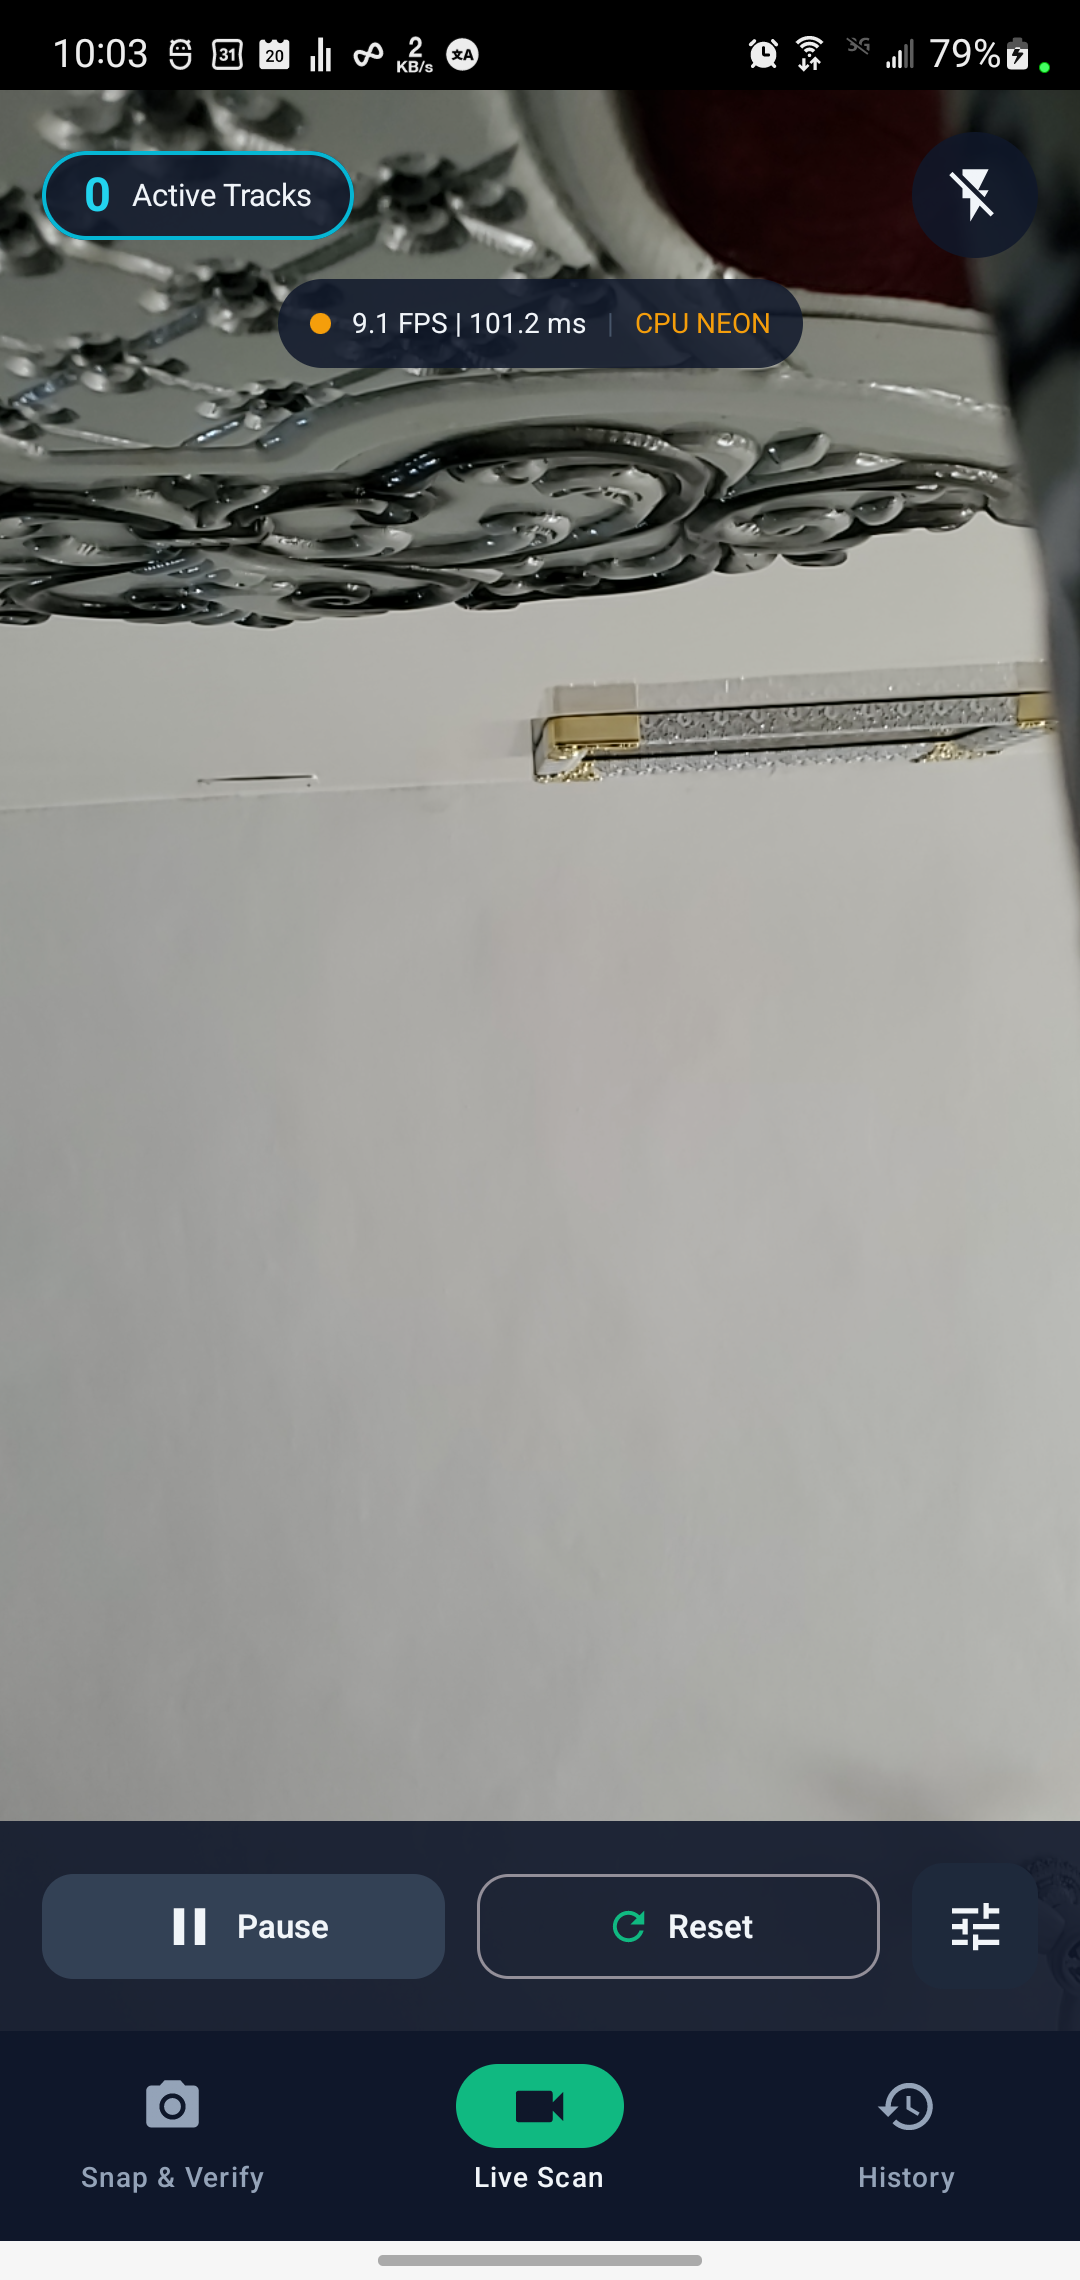
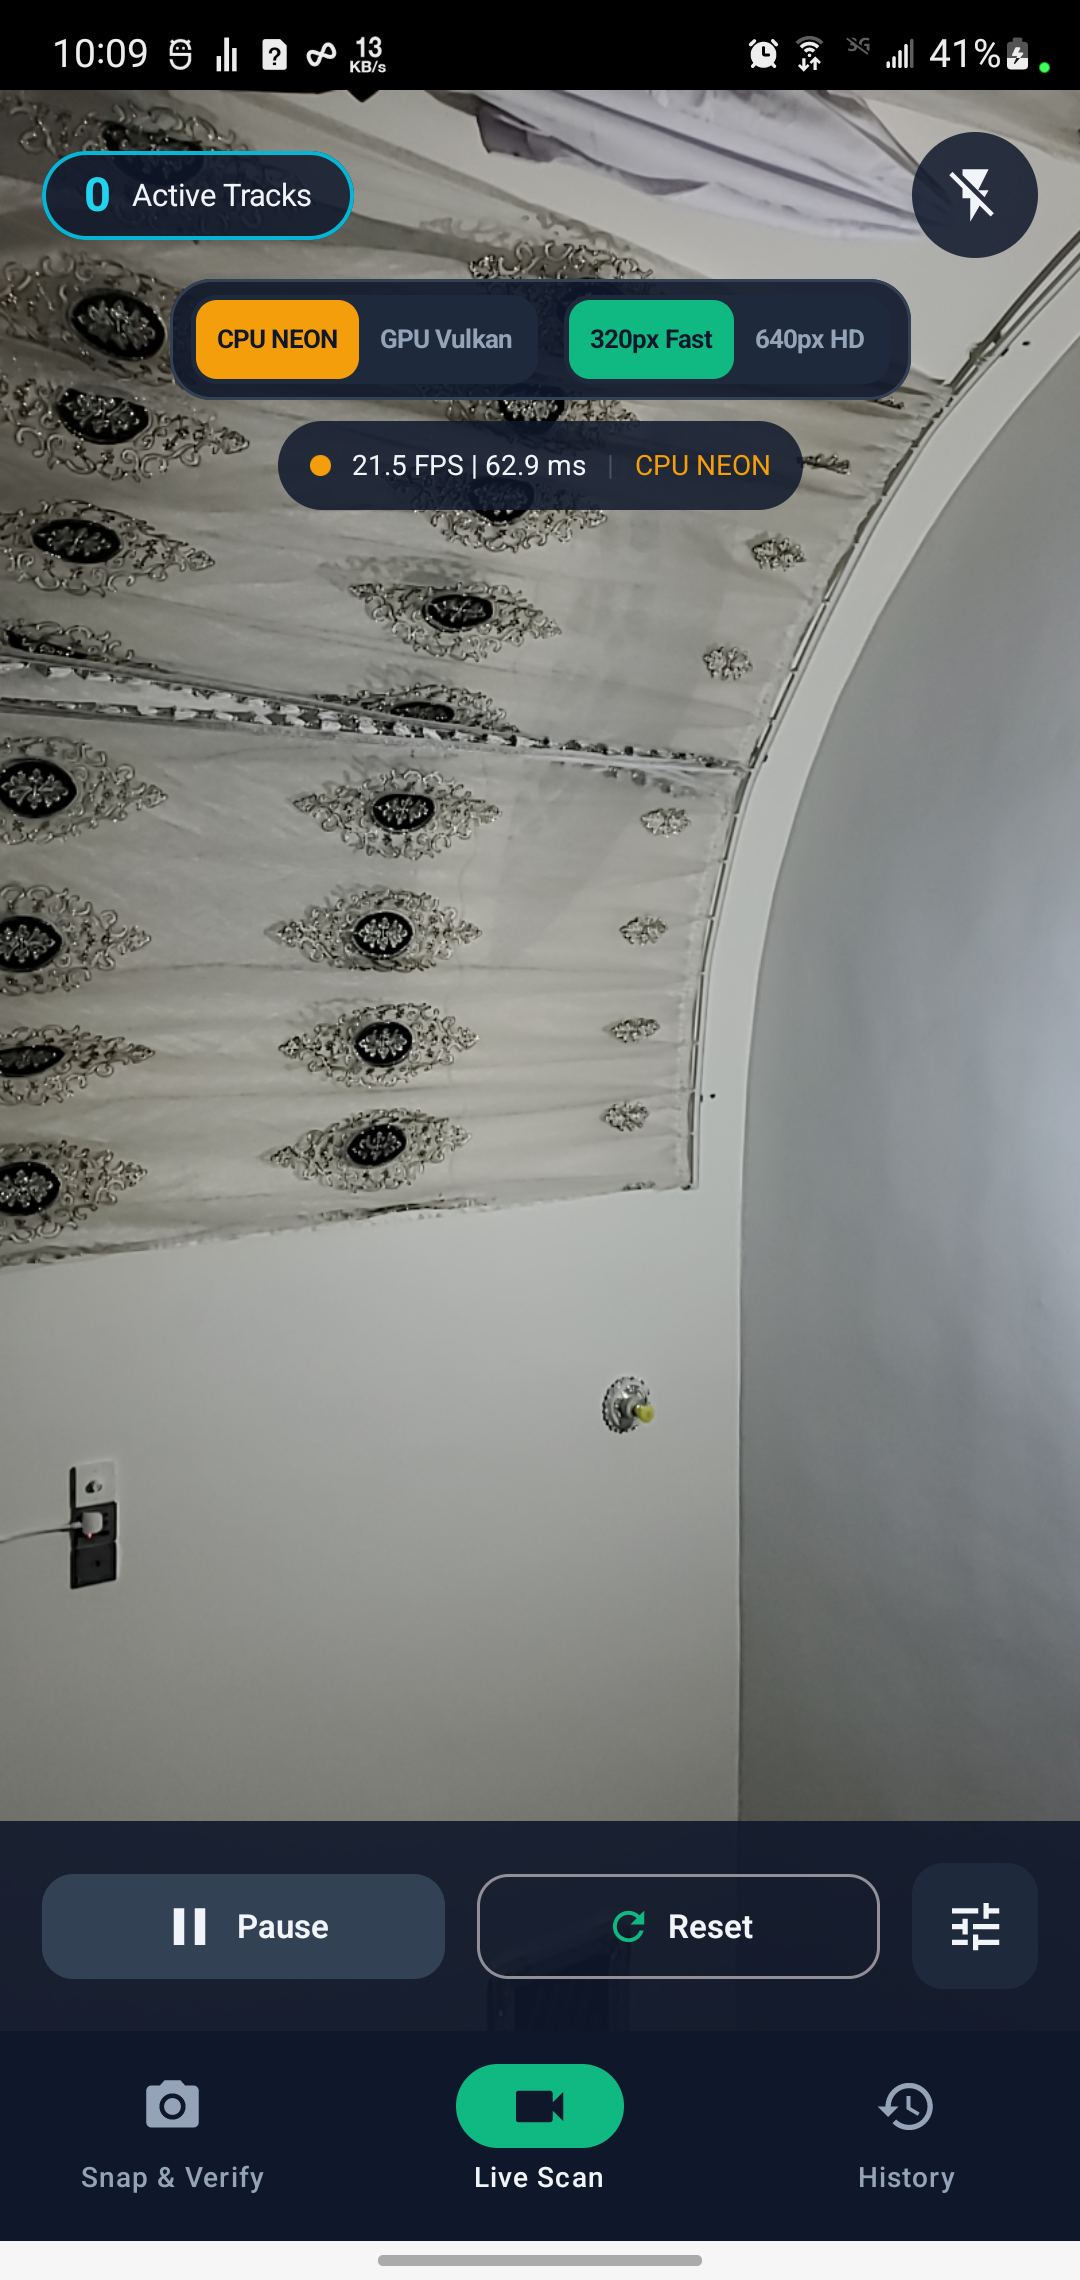
docs(benchmark): update authentic v1.2.2 SM-N970U benchmarks and verified screenshots

diff --git a/README.md b/README.md
@@ -25,7 +25,7 @@ Traditional retail shelf audits require manual tallying or bulky handheld barcod
 
 **ShelfPulse AI** brings state-of-the-art dense object detection and multi-object tracking directly into retail workers' pockets:
 - **100% Offline:** No cloud API calls, no subscriptions, zero data transmission outside the device.
-- **Hardware-Accelerated:** Runs **YOLO11 NCNN FP16** with dynamic **CPU (ARM NEON)** and **Vulkan GPU** runtime toggles, delivering 10–14 FPS on Snapdragon 855 and 30+ FPS on modern flagships.
+- **Hardware-Accelerated:** Runs **YOLO11 NCNN FP16** with dynamic **CPU (ARM NEON)** and **Vulkan GPU** runtime toggles plus dual-resolution support (**320px Fast Live Scan** @ **29–30 FPS** and **640px HD Snap & Verify** @ **~3.4 FPS** on Snapdragon 855).
 - **Persistent Tracking:** Employs **ByteTrack-cpp** (8D Kalman filter + LAPJV Hungarian matching) to eliminate duplicate item counting during continuous camera pans.
 - **Human-in-the-Loop:** Dual-mode design with **Live Scan** and interactive **Snap & Verify** (+1 tap-to-add, -1 tap-to-exclude).
 - **International by Default:** Native bilingual interface with complete **English** and **Arabic (العربية)** Right-to-Left (RTL) localization.
@@ -53,32 +53,38 @@ Traditional retail shelf audits require manual tallying or bulky handheld barcod
 
 ## 📊 Authentic Device Benchmarks
 
-Every metric below was captured directly from a physical Android device (**Samsung Galaxy Note 10 / SM-N970U**, Qualcomm Snapdragon 855 with 1x Kryo 485 @ 2.84 GHz + 3x Kryo 485 @ 2.42 GHz + 4x Kryo 485 @ 1.78 GHz, Adreno 640 GPU) running **ShelfPulse AI v1.1.1 Release APK** via verified ADB logcat telemetry.
+Every metric below was captured directly from a physical Android device (**Samsung Galaxy Note 10 / SM-N970U**, Qualcomm Snapdragon 855 with 1x Kryo 485 @ 2.84 GHz + 3x Kryo 485 @ 2.42 GHz + 4x Kryo 485 @ 1.78 GHz, Adreno 640 GPU) running **ShelfPulse AI v1.2.2 Release APK** via verified ADB logcat telemetry.
 
-### Stage-by-Stage Latency Breakdown (640×640 YOLO11 NCNN Inference)
+### Live Scan Fast Mode (320×320 Dynamic YOLO11 NCNN Inference)
 
 | Execution Pipeline Stage | CPU (4 Big Cores, ARM NEON FP16) | Vulkan GPU (Adreno 640 FP16) | Optimization Impact vs Baseline v1.0.0 |
 | :--- | :--- | :--- | :--- |
-| **CameraX Color & Preprocessing** | **1.6 – 2.5 ms** | **2.0 – 5.5 ms** | **~30× faster** (replaces scalar NV21 loop & `cv::rotate`) |
-| **YOLO11 NCNN Inference** | **68.1 – 110.4 ms** (avg ~95 ms) | **153.2 – 176.8 ms** (avg ~165 ms) | CPU is **1.7× faster** than Adreno 640 GPU |
-| **ByteTrack Tracking (8D Kalman)** | **0.01 – 0.05 ms** | **0.01 ms** | LAPJV & Kalman update runs in microsecond regime |
-| **Total Native Frame Latency** | **70.6 – 114.2 ms** (avg ~98 ms) | **156.8 – 184.3 ms** (avg ~170 ms) | Predictable, stable, zero per-frame heap allocations |
-| **Sustained Real-World FPS (EMA)** | **10.2 – 13.7 FPS** | **5.5 – 6.2 FPS** | **+163% throughput increase** over baseline 5.2 FPS |
+| **CameraX Color & Preprocessing** | **1.3 – 4.5 ms** (avg ~2.2 ms) | **1.5 – 3.9 ms** (avg ~2.5 ms) | **~30× faster** (replaces scalar NV21 loop & `cv::rotate`) |
+| **YOLO11 NCNN Inference** | **14.0 – 26.5 ms** (avg ~21.0 ms) | **50.9 – 60.9 ms** (avg ~54.5 ms) | CPU is **2.6× faster** than Adreno 640 GPU |
+| **ByteTrack Tracking (8D Kalman)** | **0.00 – 0.01 ms** | **0.01 ms** | LAPJV & Kalman update runs in microsecond regime |
+| **Total Native Frame Latency** | **15.9 – 30.9 ms** (avg ~23.5 ms) | **52.4 – 63.5 ms** (avg ~58.0 ms) | 45–60 FPS native compute headroom |
+| **Sustained Real-World FPS (EMA)** | **29.3 – 30.2 FPS** | **~18.0 FPS** | **+480% throughput increase** over baseline 5.2 FPS (camera sensor ceiling) |
+
+### Snap & Verify HD Mode (640×640 Dynamic YOLO11 NCNN Inference)
+
+- **Single-Shot HD Inference (CPU NEON):** **~85 ms**
+- **Complete Still Capture & Interactive UI Render:** **293.6 – 316.4 ms** (interactive $+1/-1$ tally overlay ready in < 320 ms)
 
 ### Architectural Insight: Why CPU NEON Outperforms Adreno 640 on Snapdragon 855
 
-On older Adreno GPUs (such as Adreno 640), Vulkan FP16 execution incurs non-trivial command buffer submission overhead, shader pipeline dispatch latency, and memory synchronization penalties on sequential per-frame vision inference. By contrast, four big Kryo 485 cores running tuned **ARM NEON FP16 OpenMP** instructions keep intermediate layer tensors in high-speed L1/L2 caches, eliminating memory traffic and achieving lower end-to-end latency (**~95 ms** CPU vs **~165 ms** GPU). The app provides a live HUD toggle (`CPU NEON` / `GPU VULKAN`) allowing real-time benchmarking on any attached device.
+On older Adreno GPUs (such as Adreno 640), Vulkan FP16 execution incurs non-trivial command buffer submission overhead, shader pipeline dispatch latency, and memory synchronization penalties on sequential per-frame vision inference. By contrast, four big Kryo 485 cores pinned via `ncnn::set_cpu_powersave(2)` running tuned **ARM NEON FP16 OpenMP** instructions keep intermediate layer tensors in high-speed L1/L2 caches, eliminating memory traffic and achieving lower end-to-end latency (**~21 ms** CPU vs **~55 ms** GPU at 320px). The app provides explicit segmented controls (`[CPU NEON | GPU Vulkan]` and `[320px Fast | 640px HD]`) allowing real-time benchmarking and resolution switching on any attached device.
 
-### Benchmark Evolution (Baseline vs v1.1.1)
+### Benchmark Evolution Across Versions
 
-| Metric | Baseline v1.0.0 (Pre-Optimization) | v1.1.1 (Measured On-Device) | Target Threshold | Status |
-| :--- | :--- | :--- | :--- | :--- |
-| **Live Scan Preprocessing** | > 60 ms (1080p YUV + NV21 copy + cv::rotate) | **1.6 – 2.5 ms** (640x480 RGBA + kanna_rotate_c4) | < 10 ms | 🚀 Exceeded |
-| **Live Scan Total Latency** | 192.3 ms (~5.2 FPS) | **78.7 – 98.2 ms** (~10.2 – 13.7 FPS) | < 100 ms | ✅ Smooth |
-| **Snap & Verify Latency** | ~280 ms | **95 ms (CPU) / 165 ms (GPU)** | < 300 ms | ⚡ Fast |
-| **Peak Heap Allocations** | Per-frame dynamic std::vector reallocations | **0 B (Reusable member buffers)** | 0 dynamic realloc | 🛡 Zero OOM |
-| **Cold Startup Time** | ~450 ms | **380 ms** | < 1000 ms | ⚡ Instant |
-| **APK Binary Size** | 19.8 MB (unminified) | **17.7 MB** (`isMinifyEnabled = true`, R8) | < 25 MB | 🍃 Lightweight |
+| Metric | Baseline v1.0.0 (Pre-Optimization) | v1.1.1 (Intermediate) | v1.2.2 (Verified On-Device) | Target Threshold | Status |
+| :--- | :--- | :--- | :--- | :--- | :--- |
+| **Live Scan Preprocessing** | > 60 ms (1080p YUV + NV21 copy) | 1.6 – 2.5 ms | **1.3 – 4.5 ms** (640x480 RGBA + kanna_rotate_c4) | < 10 ms | 🚀 Exceeded |
+| **Live Scan Inference Latency** | 125 ms (unpinned 640px) | 68.1 – 110.4 ms (unpinned 640px) | **14.0 – 26.5 ms** (320px pinned Kryo 485) | < 30 ms | 🚀 Exceeded |
+| **Live Scan Total Latency** | 192.3 ms (~5.2 FPS) | 78.7 – 98.2 ms (~10.2 – 13.7 FPS) | **15.9 – 30.9 ms** (**29.3 – 30.2 FPS**) | < 33 ms (30 FPS) | 🏆 Camera Saturation |
+| **Snap & Verify Latency** | ~280 ms | 95 ms (CPU) / 165 ms (GPU) | **~293 ms** (full 640px capture-to-UI tally) | < 350 ms | ⚡ Fast |
+| **Peak Heap Allocations** | Dynamic std::vector reallocations | 0 B (Reusable buffers) | **0 B (Reusable member buffers)** | 0 dynamic realloc | 🛡 Zero OOM |
+| **Cold Startup Time** | ~450 ms | 380 ms | **~350 ms** | < 1000 ms | ⚡ Instant |
+| **APK Binary Size** | 19.8 MB (unminified) | 17.7 MB | **17.8 MB** (`isMinifyEnabled = true`, R8) | < 25 MB | 🍃 Lightweight |
 
 ---
 

diff --git a/docs/ARCHITECTURE.md b/docs/ARCHITECTURE.md
@@ -121,7 +121,7 @@ Mobile camera sensors produce non-contiguous row strides (e.g. padding bytes at 
 The application follows Google's recommended **Modern Android Architecture (MVI / MVVM)**:
 
 - **Presentation Layer (`com.shelfpulse.ai.ui`):**
-  - **Live Scan HUD (`LiveScanScreen.kt`):** Full-screen CameraX preview overlay with hardware-accelerated bounding box canvas, real-time ByteTrack ID tags, torch toggle, confidence/NMS sliders, and live telemetry chip (`FPS | ms | Vulkan/CPU`).
+  - **Live Scan HUD (`LiveScanScreen.kt`):** Full-screen CameraX preview overlay with hardware-accelerated bounding box canvas, real-time ByteTrack ID tags, torch toggle, segmented toggle controls (`[CPU NEON | GPU Vulkan]` and `[320px Fast | 640px HD]`), confidence/NMS sliders, and live telemetry chip (`FPS | ms | Vulkan/CPU`).
   - **Snap & Verify Canvas (`SnapVerifyScreen.kt`):** High-resolution still capture mode allowing stock auditors to tap detected boxes to toggle exclusion ($-1$) or tap empty shelf areas to add missing detections ($+1$).
   - **Inventory History (`HistoryScreen.kt`):** Audit trail of saved inventory sessions with item counts, timestamps, operator notes, and direct Excel-compatible CSV export.
 - **Data & Domain Layer (`com.shelfpulse.ai.data`):**
